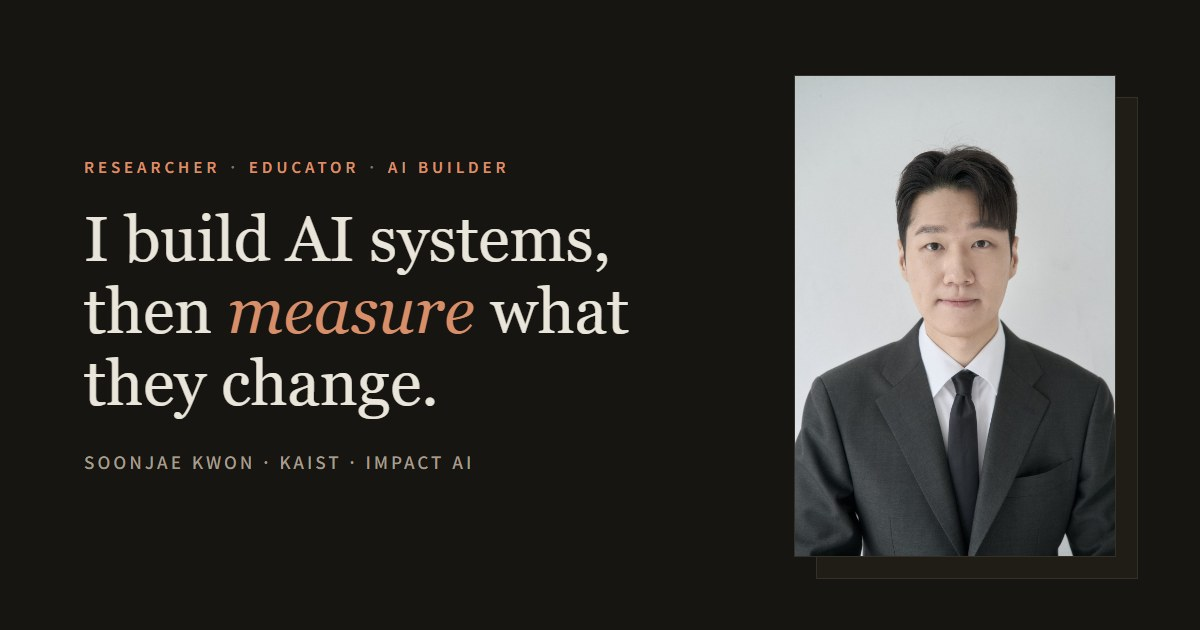
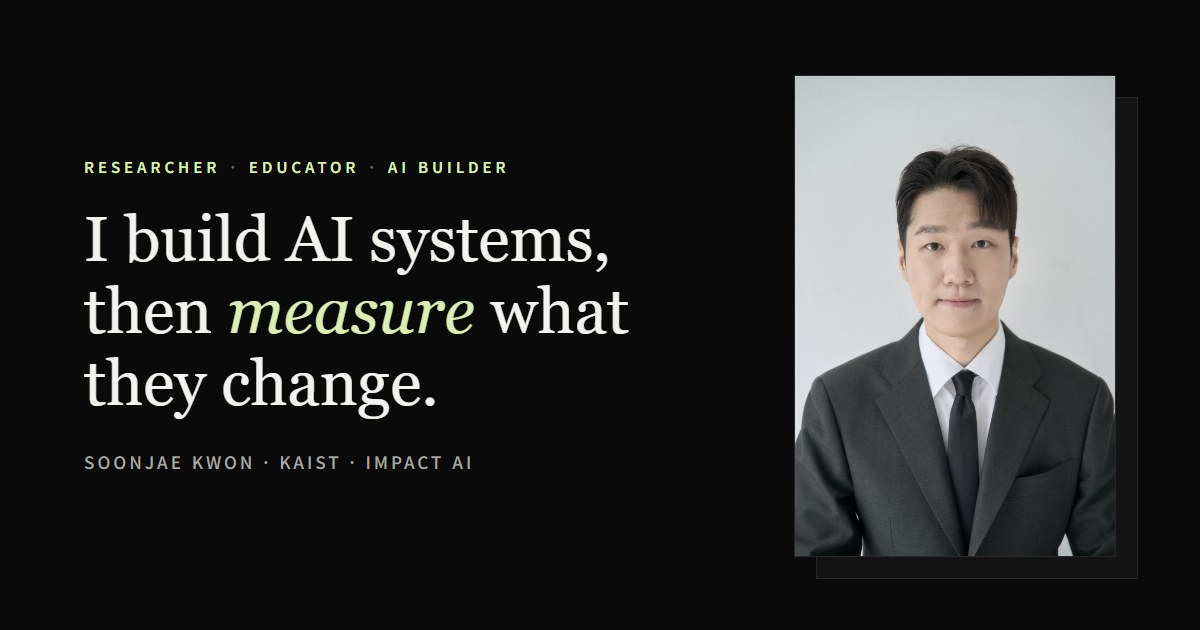
Palette: near-black + lime (lecture Figma spec); regenerate OG card

Changed region(s): [[0.185, 0.4524, 0.4008, 0.5429], [0.2158, 0.2413, 0.4317, 0.3016], [0.0617, 0.2413, 0.185, 0.3016]]

diff --git a/index.html b/index.html
@@ -3,7 +3,7 @@
 <head>
 <meta charset="utf-8">
 <meta name="viewport" content="width=device-width, initial-scale=1">
-<meta name="theme-color" content="#171511">
+<meta name="theme-color" content="#0a0a0a">
 <title>Soonjae Kwon · KAIST · Impact AI</title>
 <meta name="description" content="Soonjae Kwon (권순재), Ph.D. Adjunct professor at KAIST and senior researcher at Impact AI.">
 <link rel="canonical" href="https://kwonsoonjae.github.io/">
@@ -26,17 +26,17 @@
 <link rel="preconnect" href="https://fonts.gstatic.com" crossorigin>
 <link href="https://fonts.googleapis.com/css2?family=Cormorant+Garamond:ital,wght@0,500;0,600;1,500;1,600&family=Source+Serif+4:ital,opsz,wght@0,8..60,400;0,8..60,600;1,8..60,400&family=Inter:wght@400;500;600&display=swap" rel="stylesheet">
 <style>
-  /* Dark is the default theme (user decision, 2026-09-10). Light palette kept below for reference. */
+  /* Dark is the default theme (2026-09-10). Palette = lecture Figma spec (2026-09-11): near-black + lime #dceeb1. Previous warm dark: paper #171511 · paper-2 #201d17 · ink #e9e5da · accent #d98e6a. */
   :root {
     color-scheme: dark;
-    --paper: #171511;
-    --paper-2: #201d17;
-    --ink: #e9e5da;
-    --muted: #a39d8d;
-    --faint: #7d7869;
-    --line: #333027;
-    --accent: #d98e6a;
-    --accent-soft: rgba(217, 142, 106, .09);
+    --paper: #0a0a0a;
+    --paper-2: #141414;
+    --ink: #f2f2ef;
+    --muted: #a8a8a4;
+    --faint: #6f6f6c;
+    --line: #262626;
+    --accent: #dceeb1;
+    --accent-soft: rgba(220, 238, 177, .10);
     --serif: "Source Serif 4", Georgia, serif;
     --display: "Cormorant Garamond", Georgia, serif;
     --sans: "Inter", -apple-system, sans-serif;
